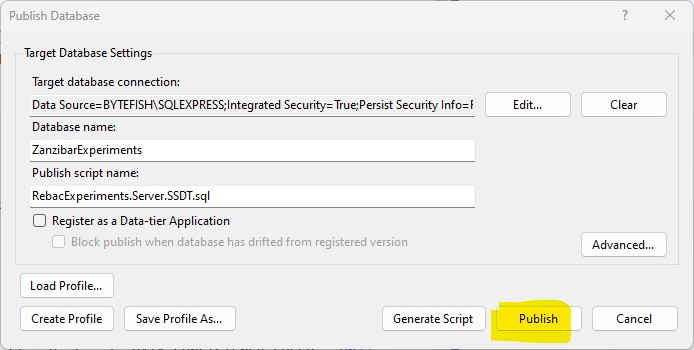
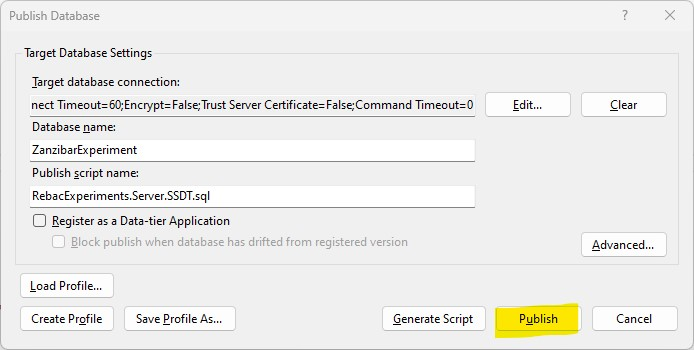
Fix Connection String Name

Changed region(s): [[0.0303, 0.2857, 0.696, 0.3143], [0.696, 0.8571, 0.8473, 1.0]]

diff --git a/blog/aspnetcore_rebac.md b/blog/aspnetcore_rebac.md
@@ -989,7 +989,7 @@ create one by clicking the `Edit ...` button.
 
 I want to have it running on a local database, so I am selecting `Local` in the Tree View, and select the SQLEXPRESS 
 instance. The Server Name and so on gets automatically filled, and we just need to set our database name. I have named 
-it `ZanzibarExperiments`, but feel free to select any database name you like.
+it `ZanzibarExperiment`, because it's the applications target database name.
 
 <div style="display:flex; align-items:center; justify-content:center;margin-bottom:15px;">
     <a href="/static/images/blog/aspnetcore_rebac/database_deployment_003_add_database.jpg">
@@ -3234,7 +3234,7 @@ Content-Type: application/json
 }
 ```
 
-And then get all Tasks by querying `/UserTasks` endpoint:
+Then we get all Tasks by querying `/UserTasks` endpoint:
 
 ```
 ### Get all UserTasks
@@ -3242,7 +3242,7 @@ And then get all Tasks by querying `/UserTasks` endpoint:
 GET {{RebacExperiments.Server.Api_HostAddress}}/UserTasks
 ```
 
-As expected by the example setup, we task `152` and `323`:
+As expected by the example setup, the result has the `UserTask` with ID `152` and ID `323` as body:
 
 ```
 [
@@ -3279,7 +3279,7 @@ As expected by the example setup, we task `152` and `323`:
 ]
 ```
 
-We sign out `philipp@bytefish.de`:
+We sign out the user `philipp@bytefish.de`:
 
 ```
 ### Sign Out "philipp@bytefish.de"
@@ -3287,7 +3287,7 @@ We sign out `philipp@bytefish.de`:
 POST {{RebacExperiments.Server.Api_HostAddress}}/Authentication/sign-out
 ```
 
-And trying to query the `/UserTasks`: 
+And we query the `/UserTasks` endpoint to get the list of `UserTask` entities: 
 
 ```
 ### Check for 401 Unauthorized when not Authenticated
@@ -3295,13 +3295,13 @@ And trying to query the `/UserTasks`:
 GET {{RebacExperiments.Server.Api_HostAddress}}/UserTasks
 ```
 
-Returns a `401` Status Code:
+The Backend correctly returns a `401` Status Code, because the user isn't authenticated:
 
 ```
 Status: 401 UnauthorizedTime: 7,48 msSize: 0 bytes
 ```
 
-Next sign in `max@mustermann.local`:
+Then we sign in the user `max@mustermann.local`:
 
 ```
 ### Sign In as "max@mustermann.local"
@@ -3324,7 +3324,7 @@ And querying the `/UserTasks` endpoint:
 GET {{RebacExperiments.Server.Api_HostAddress}}/UserTasks
 ```
 
-Returns only `UserTask` with ID `152` as expected:
+Returns only `UserTask` with ID `152`, as expected:
 
 ```
 [
@@ -3346,7 +3346,7 @@ Returns only `UserTask` with ID `152` as expected:
 ]
 ```
 
-We are not the Owner of the Task, so let's try to delete the task:
+Since we are not the `owner` of the Task `152`, we shouldn't be able to delete it:
 
 ```
 ### Delete UserTask 152 as "max@mustermann.local" (he is not the owner)
@@ -3371,8 +3371,9 @@ application/problem+json; charset=utf-8, 1154 bytes
 }
 ```
 
-The `max@mustermann.local` is allowed to create a `UserTask`. We have seen, that the person creating 
-a `UserTask` is automatically the `owner` of the task and the users entire organization can view it.
+The user `max@mustermann.local` is allowed to create a `UserTask` though. We have seen, that the person 
+creating a `UserTask` is automatically the `owner` of the task and the entire organization of the user 
+can view it.
 
 ```
 ### Create a new UserTask "API HTTP File Example" as "max@mustermann.local"
@@ -3392,7 +3393,7 @@ Content-Type: application/json
 }
 ```
 
-And we get a successful response with the created task as the response payload:
+We get a successful response with the created task as the response payload:
 
 ```
 Status: 200 OKTime: 264,41 msSize: 335 bytes
@@ -3417,7 +3418,6 @@ Status: 200 OKTime: 264,41 msSize: 335 bytes
 If we now sign-in "philipp@bytefish.de":
 
 ```
-
 ### Sign In "philipp@bytefish.de"
 
 POST {{RebacExperiments.Server.Api_HostAddress}}/Authentication/sign-in
@@ -3442,7 +3442,9 @@ We cannot see the "API HTTP File Example" Task created by the other user, becaus
 `philipp@bytefish.de` isn't part of the Organization and has no relationship to the 
 task.
 
-And this is where our example ends. Feel free to play around with the example as much as you like.
+And this is where our example ends. 
+
+Feel free to play around with the example as much as you like!
 
 ## Conclusion ##
 
